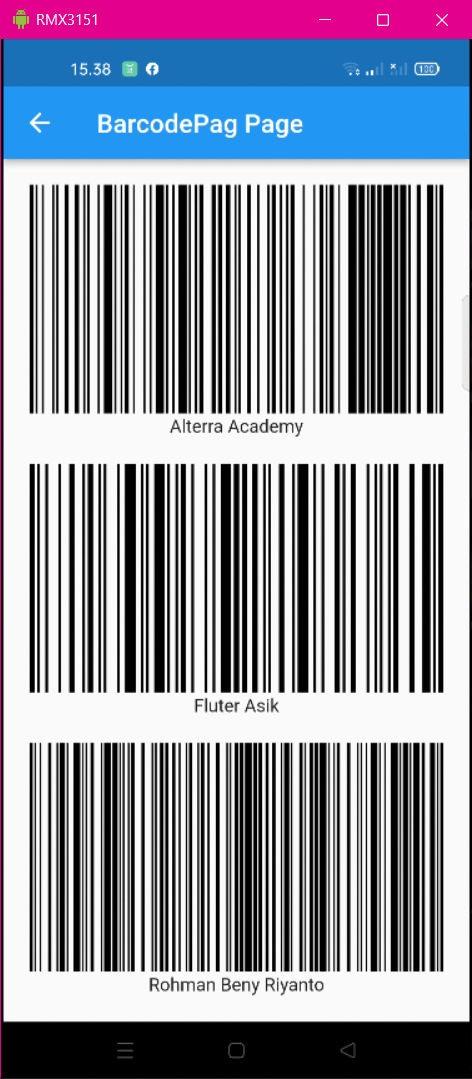
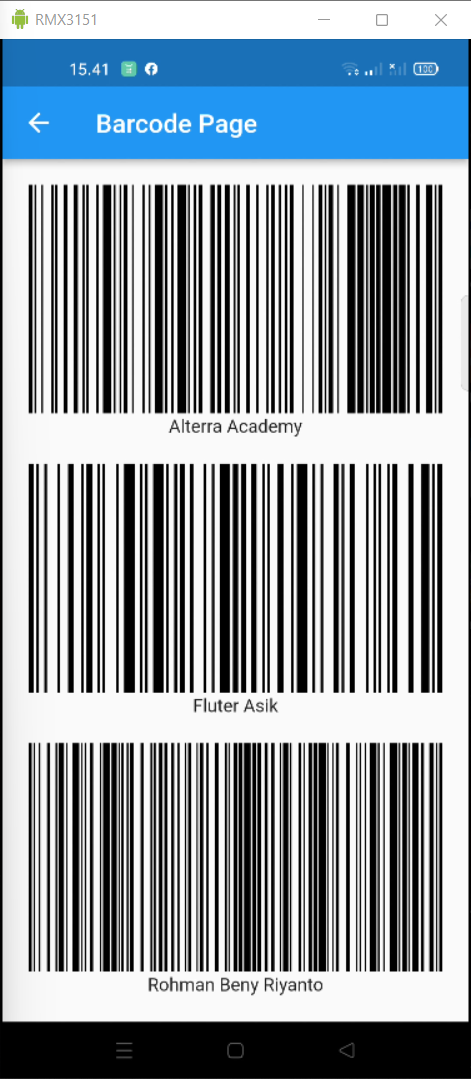
📋Tugas Beny Alterra Academy

Changed region(s): [[0.0594, 0.4282, 0.9214, 0.9175], [0.0, 0.0, 1.0, 0.9481], [0.0594, 0.0918, 0.0892, 0.1223]]

diff --git a/13_Flutter Command Line Interface (CLI) and Flutter package management/praktikum/task_section_13/lib/task_2.dart b/13_Flutter Command Line Interface (CLI) and Flutter package management/praktikum/task_section_13/lib/task_2.dart
@@ -9,7 +9,7 @@ class BarcodePage extends StatelessWidget {
     return Scaffold(
       appBar: AppBar(
         title: const Text(
-          'BarcodePag Page',
+          'Barcode Page',
         ),
       ),
       body: Center(
